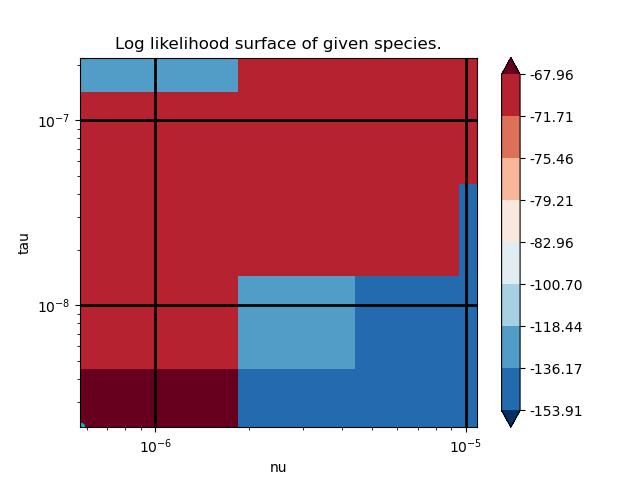
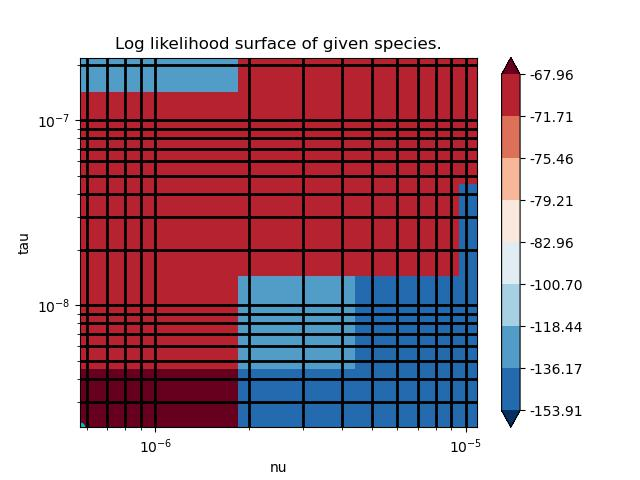
plot likelihood prototype

Changed region(s): [[0.125, 0.125, 0.75, 0.9062]]

diff --git a/Scripts/plot_likelihood.py b/Scripts/plot_likelihood.py
@@ -21,7 +21,7 @@ import matplotlib
 matplotlib.use('Agg') # Must be before importing matplotlib.pyplot or pylab!
 import matplotlib.pyplot as plt
 from matplotlib import ticker, cm
-
+import pandas as pd
 
 class ArgumentParserNoArgHelp(argparse.ArgumentParser):
     """Like *argparse.ArgumentParser*, but prints help when no arguments."""
@@ -477,6 +477,8 @@ class PlotLikelihood():
                         z[i,  j] = loglik
                         ll_grid.append(ll_array)
                         del ll_array
+                ll_df = pd.DataFrame(ll_grid)
+                ll_df.to_csv('ll_df.csv')
                 # generate 2 2d grids for the x & y bounds
                 z_min, z_max = -numpy.abs(z).max(), -numpy.abs(z).min()
                 z_mid = z_max - 15
@@ -509,7 +511,7 @@ class PlotLikelihood():
                 ax.set_title('Log likelihood surface of given species.')
                 ax.set_ylabel('tau')
                 ax.set_xlabel('nu')
-                matplotlib.pyplot.grid(color='k', linestyle='-', linewidth=2)
+                matplotlib.pyplot.grid(color='k', linestyle='-', linewidth=2, which='both')
                 plt.savefig(file)
         logger.info('Finished plotting likelihood surface.')
         logger.info('Pipeline executed succesfully.')
